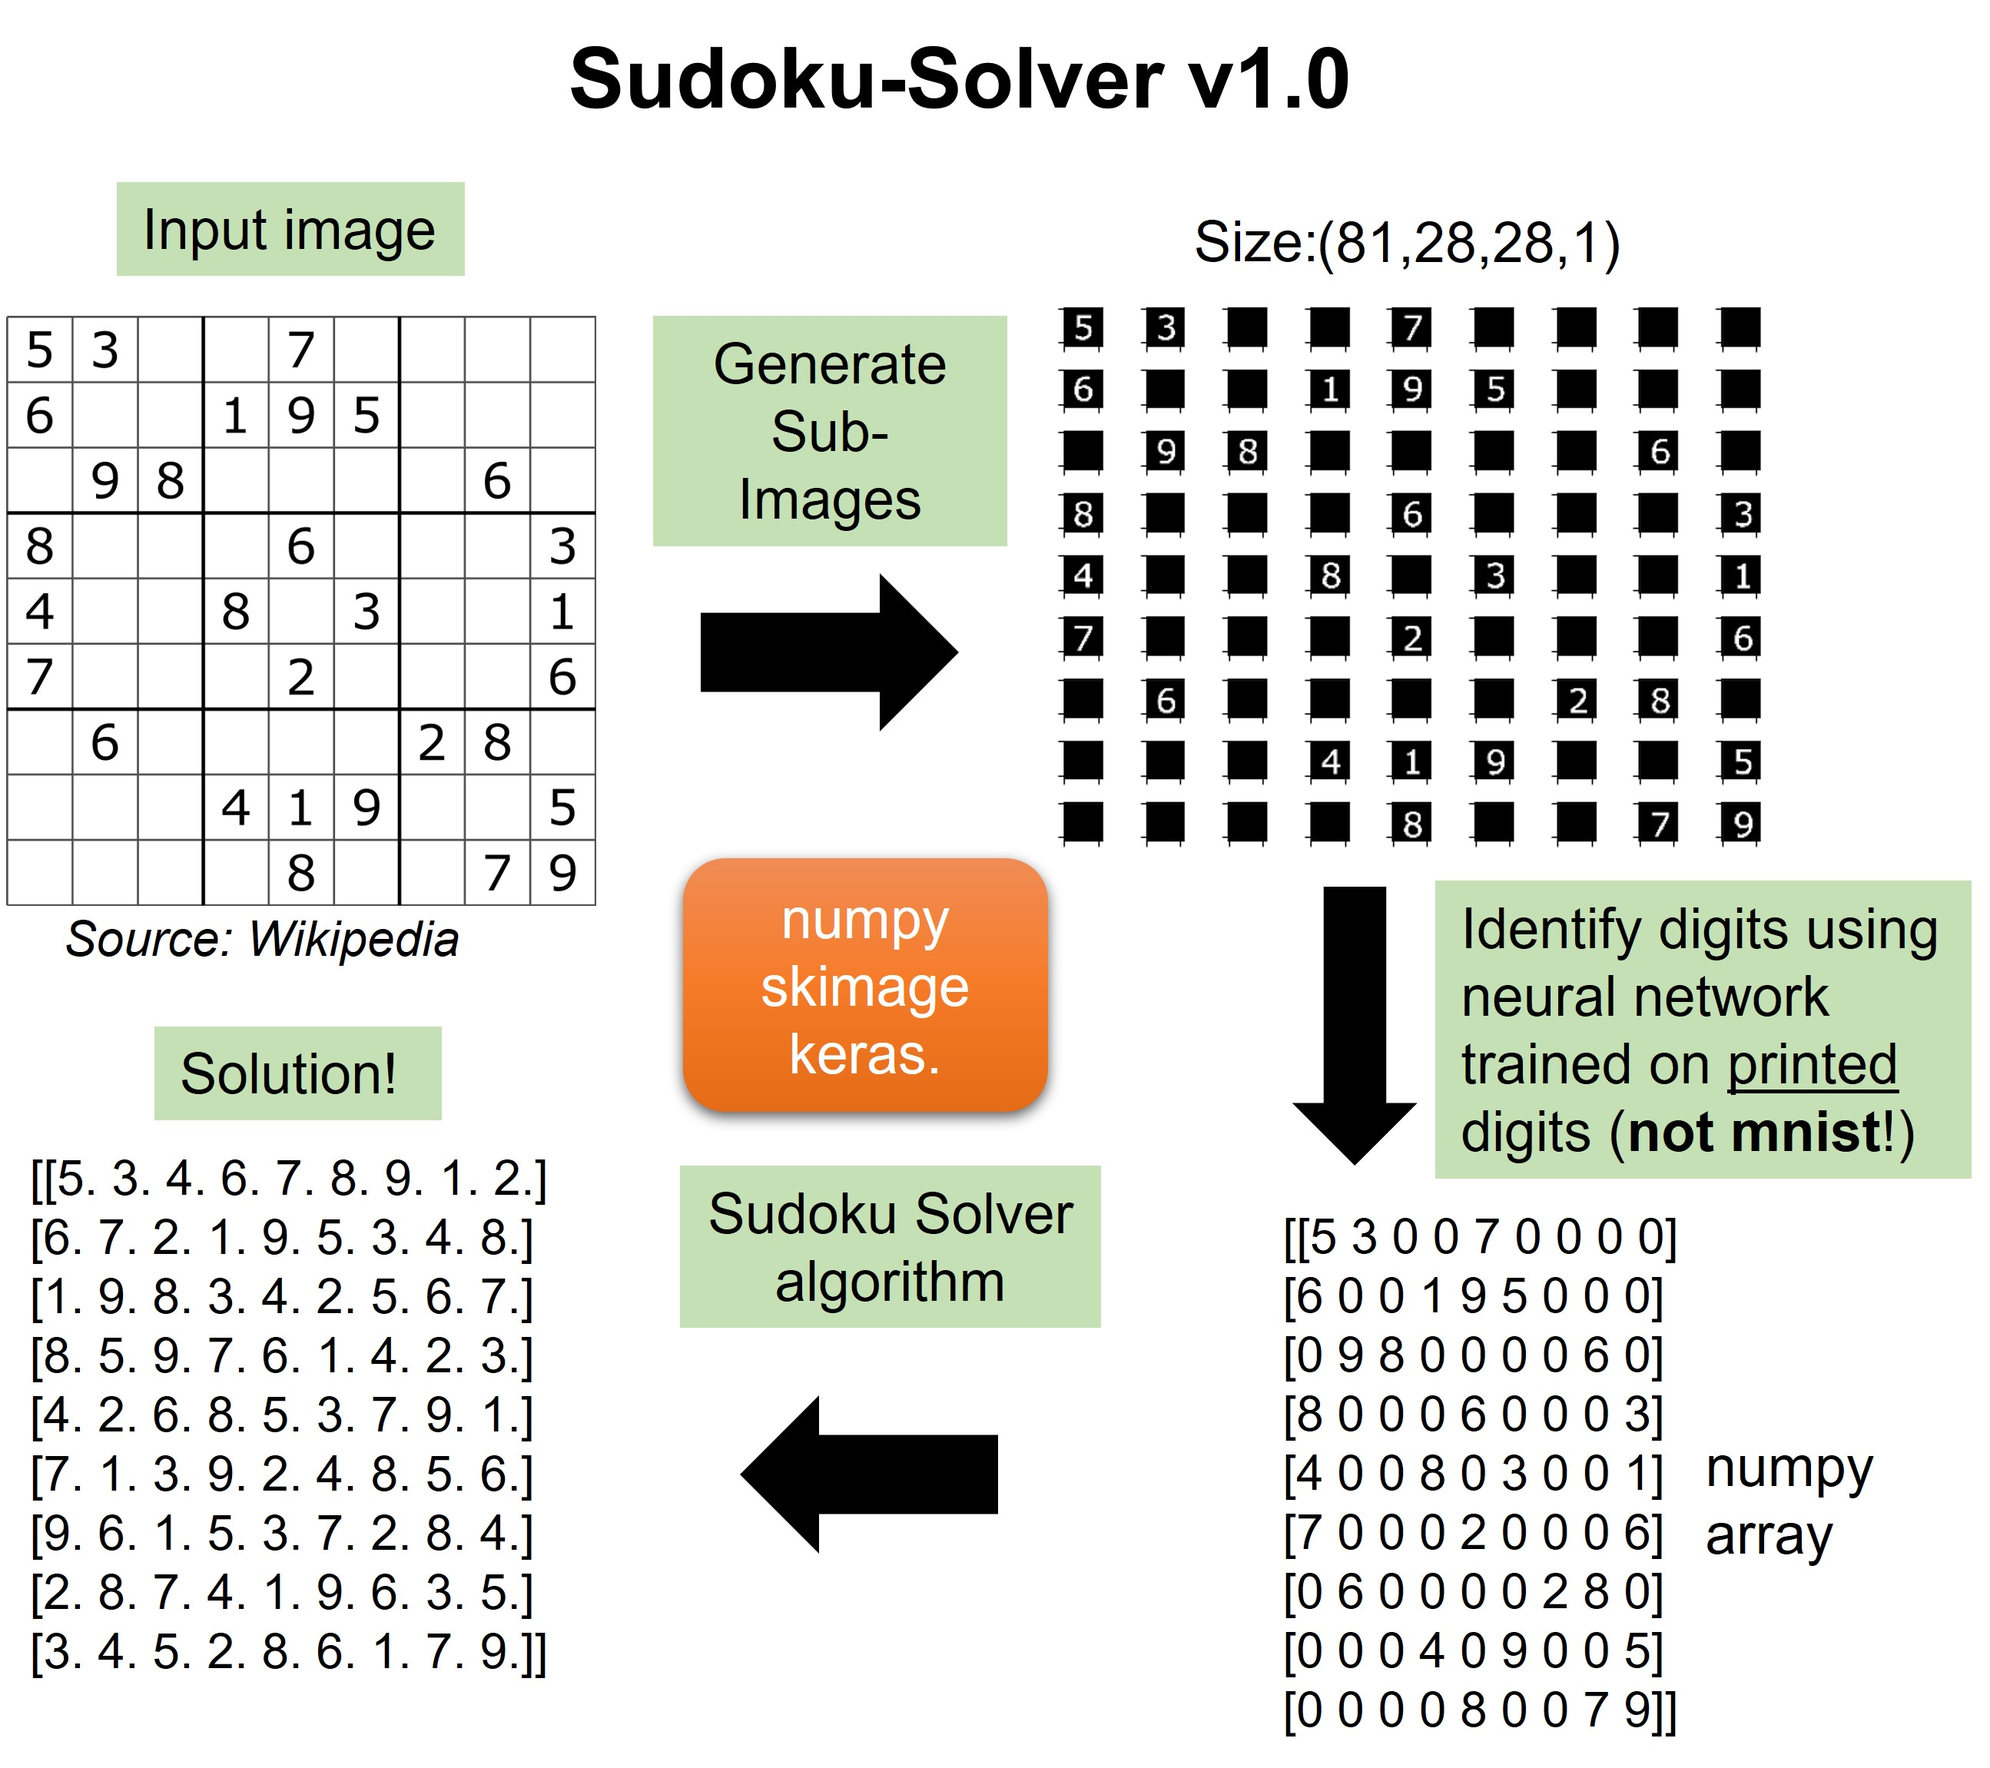
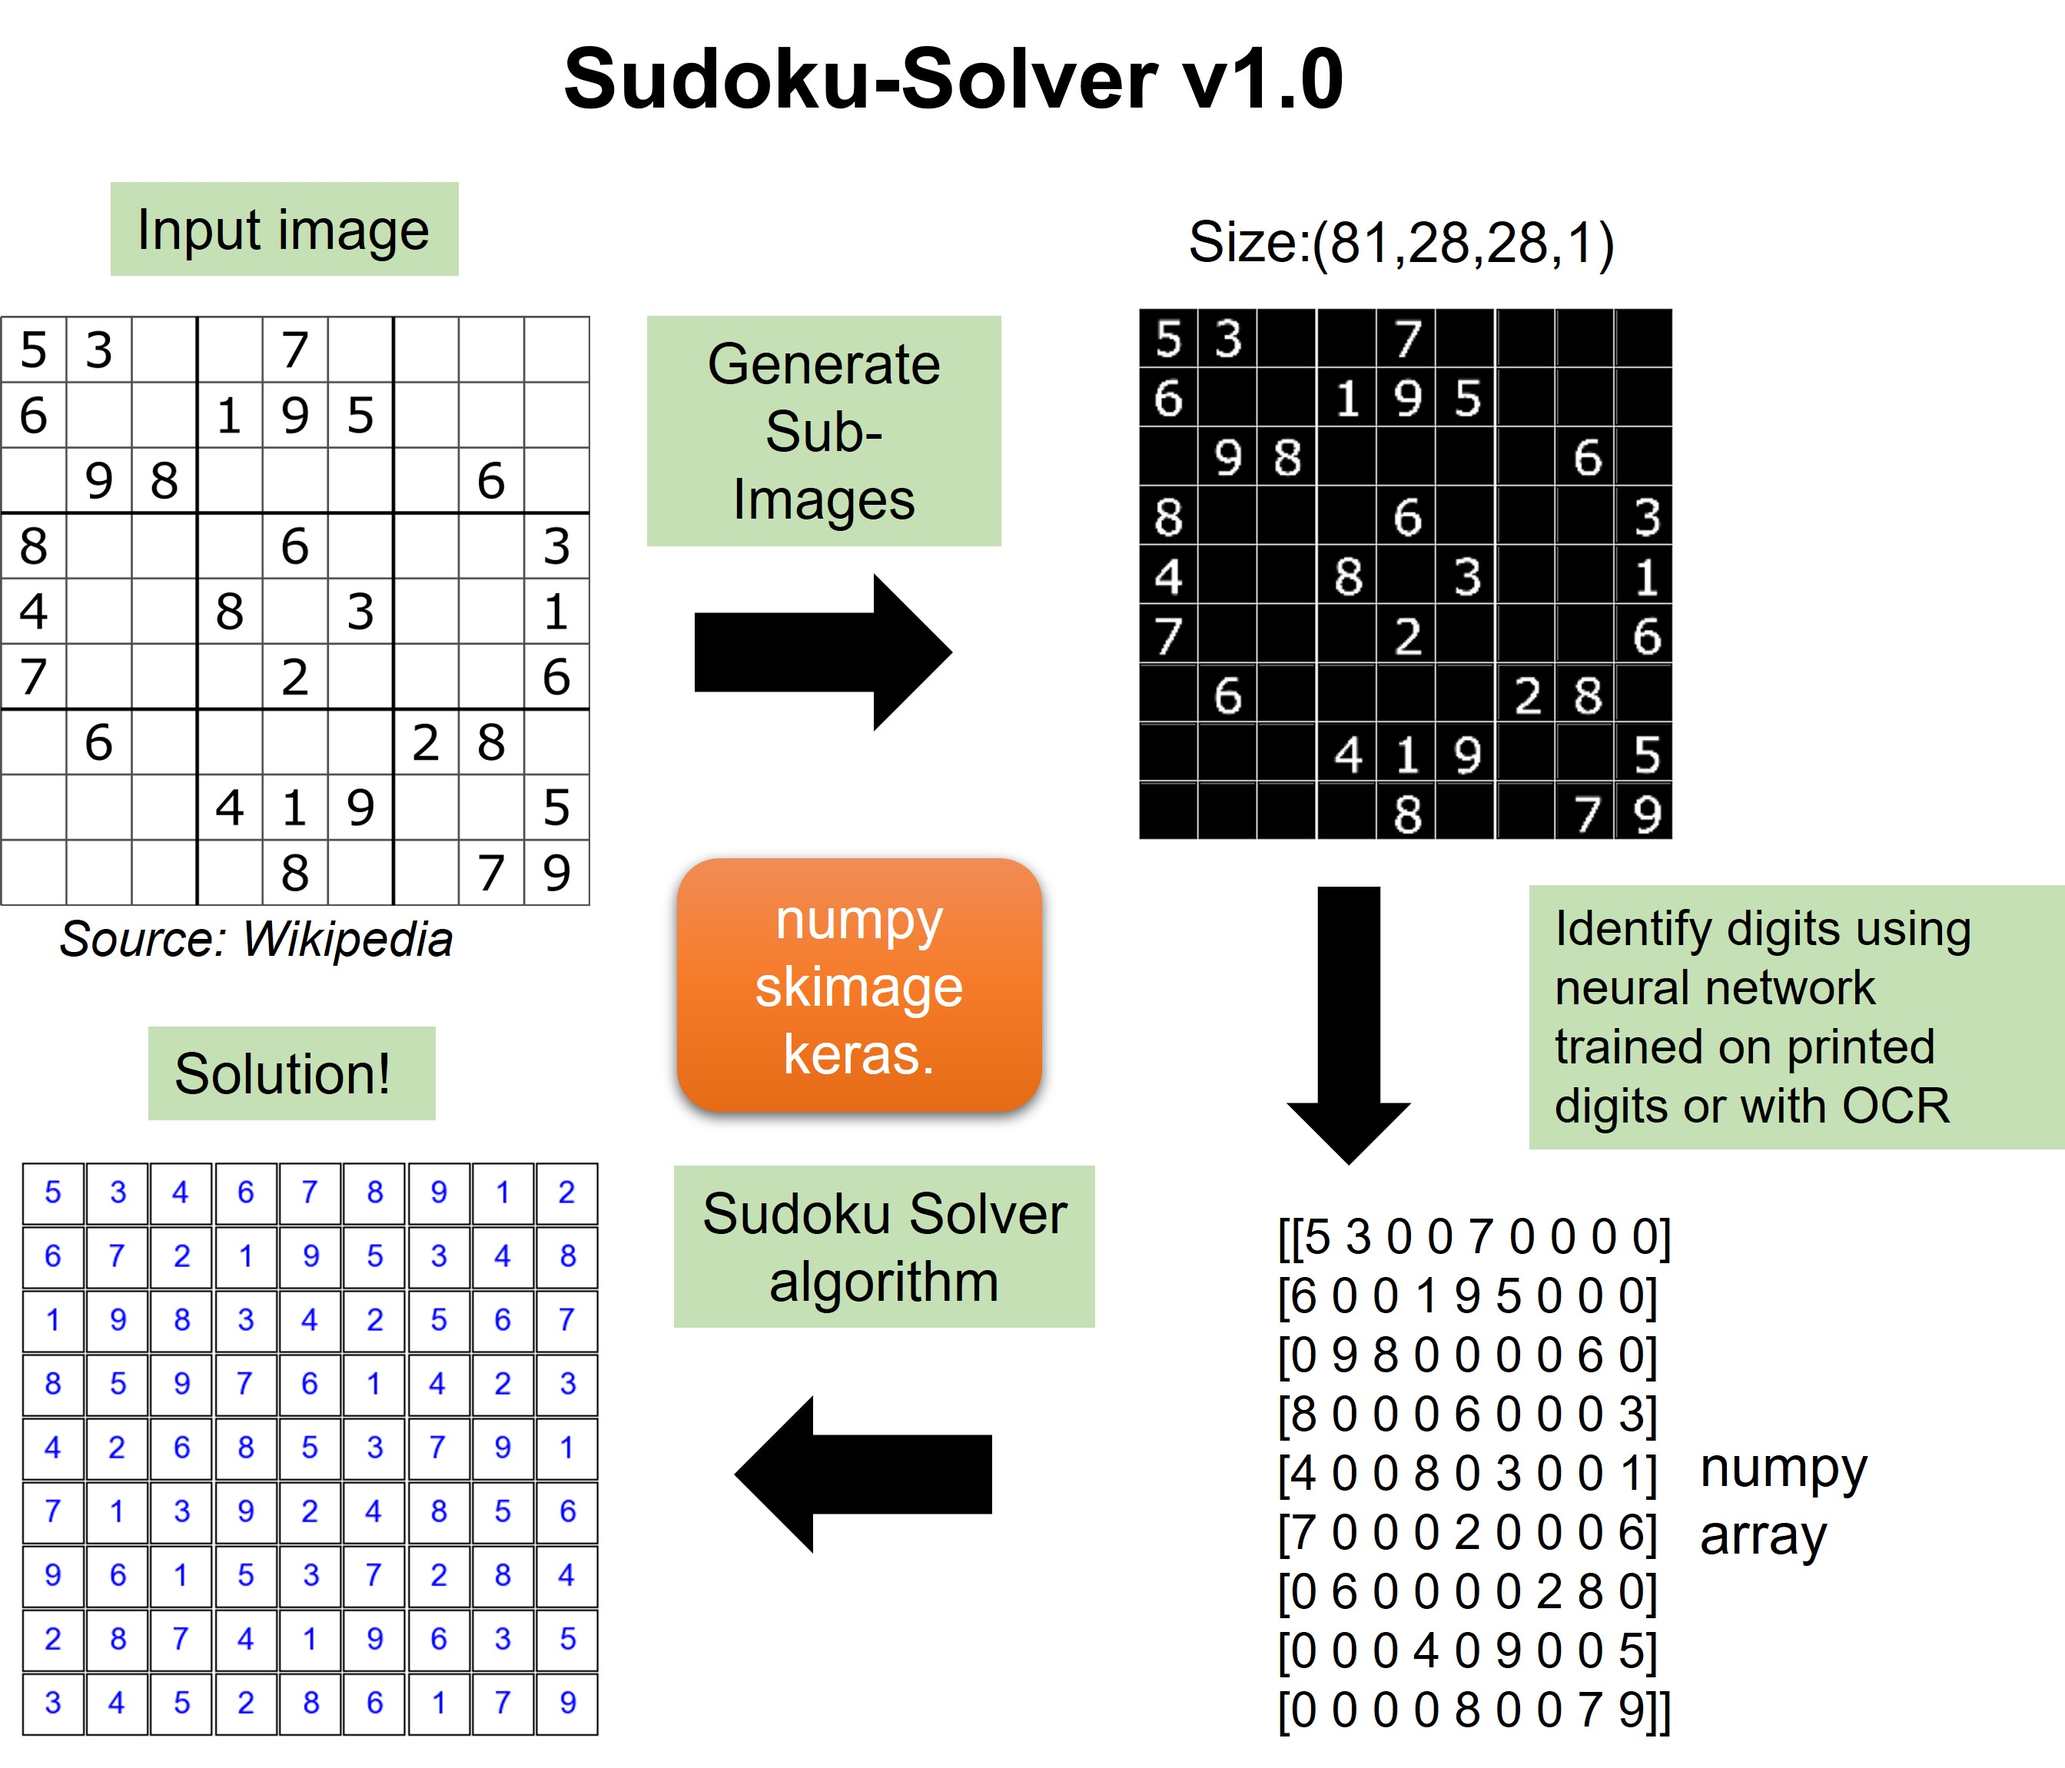
new images for readme

diff --git a/README.md b/README.md
@@ -6,7 +6,7 @@ The general algorithm of version 1.0 of the project is shown below.
 
 v1.0 only accepts a high quality digital image of the Sudoku from the top-down perspective.
 
-![version 1](assets\solver_v1.jpg)
+![version 1](\assets\solver_v1.jpg)
 
 
 Currently I am working on version 2 where the image is taken from a any angle using a camera.
@@ -17,8 +17,10 @@ At this stage the neural network model performs worse on data generated using th
 
 Improvements are ongoing. Keep an eye out for version 2.0.
 
-![version 2](assets\solver_v2.jpg)
+![version 2](\assets\solver_v2.jpg)
 
 The project is built using numpy, skimage and tensorflow.Keras.
 
 The neural network was trained on a [dataset](https://www.kaggle.com/datasets/kshitijdhama/printed-digits-dataset) containing printed digits from Kaggle.
+
+OCR was performed using a free api service.
